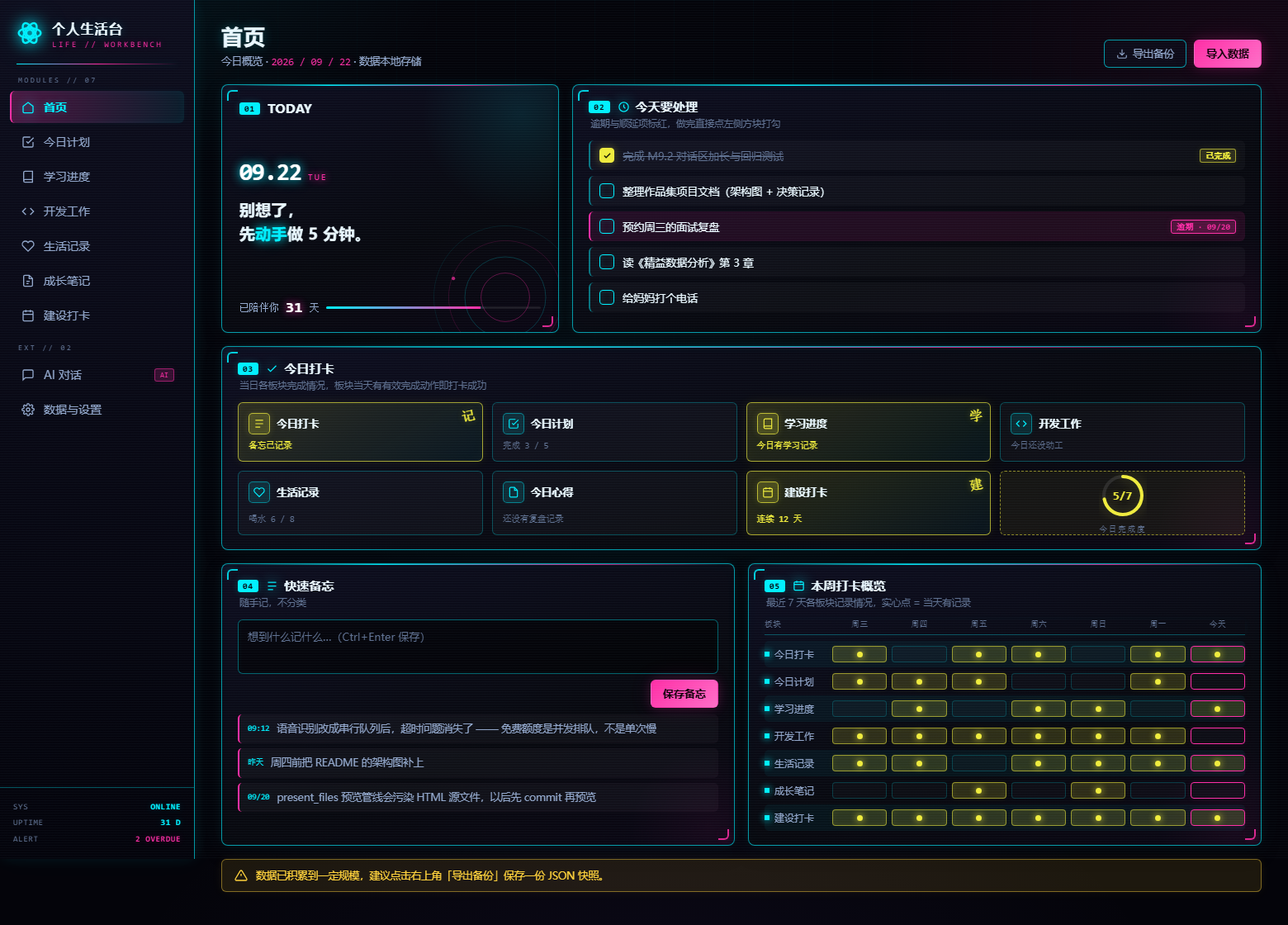
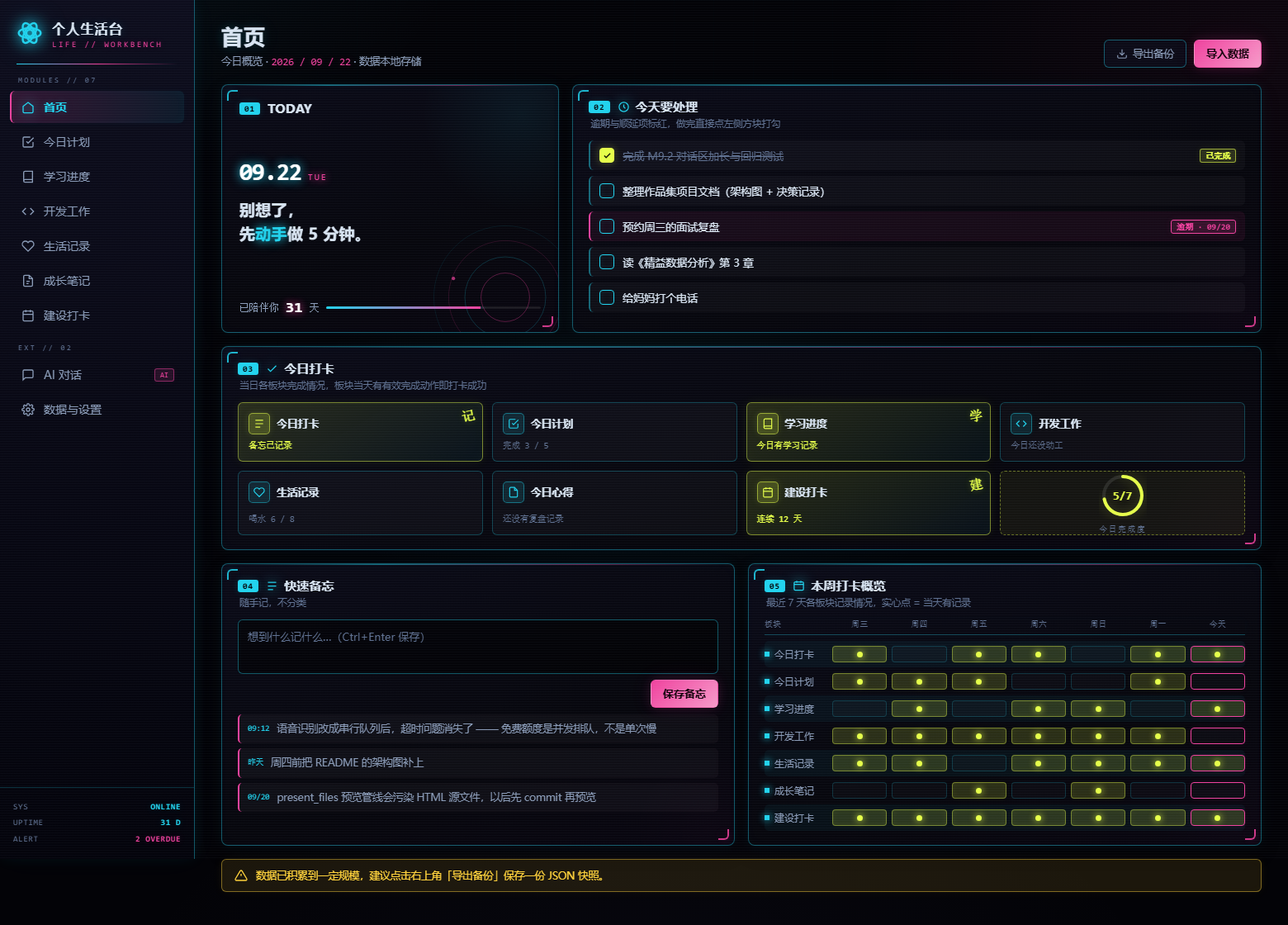
feat: B 版皮肤迭代 5（去饱和提格调 / 荧光黄带草绿）
- 去饱和：青 #00f0ff → #22d3ee（S100%→86%，色相 +7° 更冷）、品红 #ff2ea6 → #f0429e、
  紫光晕 #8b5cf6 → #7c74d6
- 做减法提格调：亮边框 .62→.40、卡片顶部霓虹高光条 .95/.8→.5/.42、网格不透明度 .75→.58、
  卡内品红余晖 →.016（五层装饰减到四层，卡片透气）
- 再压暗：底色 #04040a→#030307，卡片渐变三段同步降，文字 #eaf8ff→#d9e5f2 去刺眼
- 完成态 → 荧光黄带草绿 #e6ff4a（色相 68°，绿分量略高于红）
- 修复：批量替换时 '180,240,255' 的子串被误替换成非法值 rgba(1834,211,238,...)，
  浏览器整条忽略导致扫描线消失 —— 已修正，并加非法色值扫描自检
- 实测：光晕能量 9.04→7.60（相对最初 12.96 累计 -41%），亮部彩度 72.9→59.8（-18%），
  亮部峰值 p95 仍保 60；布局 3 行卡片、行内高度一致、无横向溢出
- png-luma.js 增加 satBright / vivid% / chromaBright 三个艳度指标（只统计 luma>40 的像素）

diff --git a/设计稿/皮肤方案/B-赛博霓虹.html b/设计稿/皮肤方案/B-赛博霓虹.html
@@ -9,10 +9,10 @@
    气质：最抓眼球、最"赛博朋克"。视觉冲击强，但辉光面积大，长时间使用略累。
 ================================================================ */
 :root{
-  --bg:#04040a;
-  --cyan:#00f0ff; --magenta:#ff2ea6; --gold:#f0ec3d; --amber:#ffd23d; --violet:#8b5cf6;
-  --panel:#0a0a16; --line:rgba(0,240,255,.34); --line-hi:rgba(0,240,255,.62);
-  --t1:#eaf8ff; --t2:#93a8cc; --t3:#607292;
+  --bg:#030307;
+  --cyan:#22d3ee; --magenta:#f0429e; --gold:#e6ff4a; --amber:#ffd23d; --violet:#7c74d6;
+  --panel:#0a0a16; --line:rgba(34,211,238,.22); --line-hi:rgba(34,211,238,.40);
+  --t1:#d9e5f2; --t2:#8b9cb8; --t3:#607292;
   --mono:"JetBrains Mono","SF Mono",ui-monospace,Menlo,Consolas,monospace;
   --r-card:8px; --r-sm:6px;
 }
@@ -21,18 +21,18 @@ body{
   font-family:"PingFang SC","Microsoft YaHei",system-ui,sans-serif;
   background:var(--bg); color:var(--t1); font-size:14px; min-height:100vh;
   background-image:
-    radial-gradient(820px 500px at 4% -8%, rgba(0,240,255,.085), transparent 62%),
-    radial-gradient(740px 460px at 97% 6%, rgba(255,46,166,.072), transparent 62%),
-    radial-gradient(980px 540px at 50% 110%, rgba(139,92,246,.058), transparent 66%),
-    radial-gradient(600px 380px at 50% 46%, rgba(0,240,255,.05), transparent 70%);
+    radial-gradient(820px 500px at 4% -8%, rgba(34,211,238,.058), transparent 62%),
+    radial-gradient(740px 460px at 97% 6%, rgba(240,66,158,.05), transparent 62%),
+    radial-gradient(980px 540px at 50% 110%, rgba(124,116,214,.04), transparent 66%),
+    radial-gradient(600px 380px at 50% 46%, rgba(34,211,238,.05), transparent 70%);
 }
 /* 扫描线 + 网格 */
 body::before{content:'';position:fixed;inset:0;pointer-events:none;z-index:8;
-  background:repeating-linear-gradient(180deg, rgba(180,240,255,.032) 0 1px, transparent 1px 3px)}
-body::after{content:'';position:fixed;inset:0;pointer-events:none;z-index:0;opacity:.75;
+  background:repeating-linear-gradient(180deg, rgba(200,228,255,.032) 0 1px, transparent 1px 3px)}
+body::after{content:'';position:fixed;inset:0;pointer-events:none;z-index:0;opacity:.58;
   background-image:
-    linear-gradient(rgba(0,240,255,.030) 1px, transparent 1px),
-    linear-gradient(90deg, rgba(0,240,255,.030) 1px, transparent 1px);
+    linear-gradient(rgba(34,211,238,.022) 1px, transparent 1px),
+    linear-gradient(90deg, rgba(34,211,238,.022) 1px, transparent 1px);
   background-size:48px 48px;
   mask-image:radial-gradient(1000px 640px at 50% 10%, #000 18%, transparent 86%)}
 #app{display:flex;min-height:100vh;position:relative;z-index:1}
@@ -42,59 +42,59 @@ body::after{content:'';position:fixed;inset:0;pointer-events:none;z-index:0;opac
   width:236px;flex-shrink:0;position:sticky;top:0;height:100vh;
   background:linear-gradient(180deg, rgba(14,14,30,.97), rgba(4,4,12,.97));
   border-right:1px solid var(--line-hi); display:flex;flex-direction:column;
-  box-shadow:1px 0 16px rgba(0,240,255,0.081), 3px 0 37px rgba(0,240,255,0.029);
+  box-shadow:1px 0 16px rgba(34,211,238,0.065), 3px 0 37px rgba(34,211,238,0.023);
 }
 .logo{padding:24px 20px 18px;display:flex;align-items:center;gap:11px;position:relative}
 .logo::after{content:'';position:absolute;left:20px;right:20px;bottom:0;height:1px;
   background:linear-gradient(90deg,var(--cyan),var(--magenta),transparent);
-  box-shadow:0 0 9px rgba(0,240,255,0.202)}
+  box-shadow:0 0 9px rgba(34,211,238,0.162)}
 .logo .mk svg{width:32px;height:32px;color:var(--cyan);
-  filter:drop-shadow(0 0 9px rgba(0,240,255,1)) drop-shadow(0 0 16px rgba(0,240,255,0.173))}
-.logo .t{font-size:16px;font-weight:700;letter-spacing:1.2px;text-shadow:0 0 12px rgba(0,240,255,0.245)}
+  filter:drop-shadow(0 0 9px rgba(34,211,238,1)) drop-shadow(0 0 16px rgba(34,211,238,0.173))}
+.logo .t{font-size:16px;font-weight:700;letter-spacing:1.2px;text-shadow:0 0 12px rgba(34,211,238,0.196)}
 .logo .s{font-size:10px;color:var(--magenta);margin-top:3px;font-family:var(--mono);
-  letter-spacing:2.4px;text-shadow:0 0 9px rgba(255,46,166,0.259)}
+  letter-spacing:2.4px;text-shadow:0 0 9px rgba(240,66,158,0.207)}
 nav{flex:1;padding:14px 12px;overflow-y:auto}
 .nav-label{font-family:var(--mono);font-size:9px;letter-spacing:2.4px;color:var(--t3);padding:0 10px 8px}
 .nav-item{display:flex;align-items:center;gap:11px;padding:10px 12px;border-radius:var(--r-sm);
   cursor:pointer;color:var(--t2);margin-bottom:3px;font-size:14px;
   border-left:2px solid transparent;transition:.18s}
-.nav-item:hover{background:rgba(0,240,255,.1);color:var(--t1)}
+.nav-item:hover{background:rgba(34,211,238,.1);color:var(--t1)}
 .nav-item.active{
-  background:linear-gradient(90deg, rgba(255,46,166,.26), rgba(0,240,255,.07));
+  background:linear-gradient(90deg, rgba(240,66,158,.17), rgba(34,211,238,.07));
   color:var(--cyan); border-left-color:var(--magenta); font-weight:600;
-  text-shadow:0 0 9px rgba(0,240,255,0.259);
-  box-shadow:inset 0 0 12px rgba(0,240,255,0.046), 0 0 10px rgba(0,240,255,0.035)}
+  text-shadow:0 0 9px rgba(34,211,238,0.207);
+  box-shadow:inset 0 0 12px rgba(34,211,238,0.037), 0 0 10px rgba(34,211,238,0.028)}
 .nav-item svg{width:16px;height:16px;flex:none}
 .nav-item.active svg{filter:drop-shadow(0 0 8px var(--cyan))}
 .nav-item .tag{margin-left:auto;font-family:var(--mono);font-size:9px;padding:2px 6px;border-radius:3px;
-  background:rgba(255,46,166,.18);color:var(--magenta);border:1px solid rgba(255,46,166,.5);
-  box-shadow:0 0 9px rgba(255,46,166,0.086)}
+  background:rgba(240,66,158,.13);color:var(--magenta);border:1px solid rgba(240,66,158,.5);
+  box-shadow:0 0 9px rgba(240,66,158,0.069)}
 .side-foot{padding:14px 16px;border-top:1px solid var(--line)}
 .hud{font-family:var(--mono);font-size:10px;color:var(--t3);line-height:1.95;letter-spacing:.6px}
-.hud b{color:var(--cyan);font-weight:600;text-shadow:0 0 9px rgba(0,240,255,0.245)}
+.hud b{color:var(--cyan);font-weight:600;text-shadow:0 0 9px rgba(34,211,238,0.196)}
 .hud .row{display:flex;justify-content:space-between}
-.hud .row.warn b{color:var(--magenta);text-shadow:0 0 9px rgba(255,46,166,0.245)}
+.hud .row.warn b{color:var(--magenta);text-shadow:0 0 9px rgba(240,66,158,0.196)}
 
 /* ---------- 主区 ---------- */
 main{flex:1;min-width:0;padding:26px 30px 40px;max-width:1320px;margin:0 auto}
 .page-head{display:flex;align-items:flex-end;justify-content:space-between;margin-bottom:20px;gap:16px;flex-wrap:wrap}
 .page-head h1{font-size:26px;font-weight:800;letter-spacing:1px;
-  text-shadow:0 0 14px rgba(0,240,255,0.23), 0 0 32px rgba(0,240,255,0.101)}
+  text-shadow:0 0 14px rgba(34,211,238,0.184), 0 0 32px rgba(34,211,238,0.081)}
 .page-head .sub{color:var(--t2);font-size:12.5px;margin-top:5px}
 .page-head .sub em{font-style:normal;font-family:var(--mono);color:var(--magenta);
-  text-shadow:0 0 9px rgba(255,46,166,0.259)}
+  text-shadow:0 0 9px rgba(240,66,158,0.207)}
 .head-actions{display:flex;gap:9px}
 .btn{display:inline-flex;align-items:center;gap:6px;padding:8px 14px;border-radius:var(--r-sm);
   border:1px solid var(--line-hi);background:rgba(12,12,26,.8);color:var(--t2);cursor:pointer;
   font-size:12.5px;font-family:inherit;transition:.16s;
-  box-shadow:0 0 9px rgba(0,240,255,0.04), inset 0 0 9px rgba(0,240,255,0.014)}
+  box-shadow:0 0 9px rgba(34,211,238,0.032), inset 0 0 9px rgba(34,211,238,0.011)}
 .btn:hover{color:var(--cyan);border-color:var(--cyan);
-  box-shadow:0 0 14px rgba(0,240,255,0.144), inset 0 0 12px rgba(0,240,255,0.04)}
+  box-shadow:0 0 14px rgba(34,211,238,0.115), inset 0 0 12px rgba(34,211,238,0.032)}
 .btn svg{width:14px;height:14px}
-.btn.primary{background:linear-gradient(135deg,var(--magenta),#ff6ec7);border-color:transparent;
+.btn.primary{background:linear-gradient(135deg,var(--magenta),#f79ac9);border-color:transparent;
   color:#12000a;font-weight:800;letter-spacing:.5px;
-  box-shadow:0 0 14px rgba(255,46,166,0.187), 0 0 32px rgba(255,46,166,0.081)}
-.btn.primary:hover{box-shadow:0 0 20px rgba(255,46,166,0.274), 0 0 48px rgba(255,46,166,0.115)}
+  box-shadow:0 0 14px rgba(240,66,158,0.15), 0 0 32px rgba(240,66,158,0.065)}
+.btn.primary:hover{box-shadow:0 0 20px rgba(240,66,158,0.219), 0 0 48px rgba(240,66,158,0.092)}
 
 /* ---------- 栅格 ---------- */
 .home-grid{display:grid;grid-template-columns:repeat(12,1fr);gap:16px;align-items:stretch}
@@ -103,42 +103,42 @@ main{flex:1;min-width:0;padding:26px 30px 40px;max-width:1320px;margin:0 auto}
 /* ---------- 卡片：圆角 10px（明显但克制） + 霓虹描边 + 多层辉光 ---------- */
 .card{position:relative;display:flex;flex-direction:column;padding:17px 19px;
   border-radius:var(--r-card); overflow:hidden;
-  background:linear-gradient(162deg,#0e0e20 0%,#08090f 62%,#0b0714 100%);
+  background:linear-gradient(162deg,#0b0b18 0%,#07070d 62%,#090610 100%);
   border:1px solid var(--line-hi);
   box-shadow:
-    0 0 0 1px rgba(0,240,255,0.029),
-    0 0 14px rgba(0,240,255,0.058),
-    0 0 36px rgba(0,240,255,0.026),
-    inset 0 0 20px rgba(0,240,255,0.016),
-    inset 0 1px 0 rgba(255,255,255,0.02),
-    0 9px 25px rgba(0,0,0,0.158);
+    0 0 0 1px rgba(34,211,238,0.023),
+    0 0 14px rgba(34,211,238,0.046),
+    0 0 36px rgba(34,211,238,0.021),
+    inset 0 0 20px rgba(34,211,238,0.013),
+    inset 0 1px 0 rgba(255,255,255,0.016),
+    0 9px 25px rgba(0,0,0,0.126);
 }
 /* 顶部霓虹高光条 */
 .card::before{content:'';position:absolute;top:0;left:16px;right:16px;height:1px;z-index:3;
-  background:linear-gradient(90deg,transparent,rgba(0,240,255,.95) 30%,rgba(255,46,166,.8) 72%,transparent);
-  box-shadow:0 0 9px rgba(0,240,255,0.216), 0 0 16px rgba(255,46,166,0.115)}
+  background:linear-gradient(90deg,transparent,rgba(34,211,238,.5) 30%,rgba(240,66,158,.42) 72%,transparent);
+  box-shadow:0 0 9px rgba(34,211,238,0.173), 0 0 16px rgba(240,66,158,0.092)}
 /* 右下角品红余晖 */
 .card::after{content:'';position:absolute;right:-70px;bottom:-80px;width:200px;height:200px;
   border-radius:50%;z-index:0;pointer-events:none;
-  background:radial-gradient(circle,rgba(255,46,166,.05),transparent 68%)}
+  background:radial-gradient(circle,rgba(240,66,158,.016),transparent 68%)}
 .card > *{position:relative;z-index:1}
-.card.hot{border-color:rgba(255,46,166,.6);
-  box-shadow:0 0 0 1px rgba(255,46,166,0.04), 0 0 16px rgba(255,46,166,0.069),
-    0 0 37px rgba(255,46,166,0.029), inset 0 0 20px rgba(255,46,166,0.02), 0 9px 25px rgba(0,0,0,0.158)}
+.card.hot{border-color:rgba(240,66,158,.6);
+  box-shadow:0 0 0 1px rgba(240,66,158,0.032), 0 0 16px rgba(240,66,158,0.055),
+    0 0 37px rgba(240,66,158,0.023), inset 0 0 20px rgba(240,66,158,0.016), 0 9px 25px rgba(0,0,0,0.126)}
 
 /* 角标：圆角取景框（呼应声场球） */
 .corner{position:absolute;width:13px;height:13px;z-index:2;pointer-events:none;opacity:.85}
 .corner.tl{top:6px;left:6px;border-top:2px solid var(--cyan);border-left:2px solid var(--cyan);
-  border-radius:6px 0 0 0;box-shadow:-2px -2px 9px rgba(0,240,255,0.13)}
+  border-radius:6px 0 0 0;box-shadow:-2px -2px 9px rgba(34,211,238,0.104)}
 .corner.br{bottom:6px;right:6px;border-bottom:2px solid var(--magenta);border-right:2px solid var(--magenta);
-  border-radius:0 0 6px 0;box-shadow:2px 2px 9px rgba(255,46,166,0.13)}
+  border-radius:0 0 6px 0;box-shadow:2px 2px 9px rgba(240,66,158,0.104)}
 
 .chead{display:flex;align-items:center;gap:9px;margin-bottom:3px}
-.chead .no{font-family:var(--mono);font-size:9.5px;color:#04040a;letter-spacing:1.4px;
+.chead .no{font-family:var(--mono);font-size:9.5px;color:#030307;letter-spacing:1.4px;
   background:var(--cyan);padding:2px 6px;border-radius:3px;font-weight:700;
-  box-shadow:0 0 9px rgba(0,240,255,0.202)}
+  box-shadow:0 0 9px rgba(34,211,238,0.162)}
 .chead h2{font-size:14.5px;font-weight:800;letter-spacing:.6px;display:flex;align-items:center;gap:7px}
-.chead h2 svg{width:15px;height:15px;color:var(--cyan);filter:drop-shadow(0 0 8px rgba(0,240,255,1))}
+.chead h2 svg{width:15px;height:15px;color:var(--cyan);filter:drop-shadow(0 0 8px rgba(34,211,238,1))}
 .cdesc{font-size:11.5px;color:var(--t3);margin-bottom:13px;padding-left:2px}
 .cbody{flex:1;display:flex;flex-direction:column;min-height:0}
 
@@ -146,124 +146,124 @@ main{flex:1;min-width:0;padding:26px 30px 40px;max-width:1320px;margin:0 auto}
 .date-card{padding:19px 21px;justify-content:space-between}
 .date-card::after{display:none}
 .date-card .glow{position:absolute;right:-80px;top:-90px;width:250px;height:250px;border-radius:50%;
-  background:radial-gradient(circle, rgba(0,240,255,.10), transparent 68%);z-index:1;pointer-events:none}
+  background:radial-gradient(circle, rgba(34,211,238,.07), transparent 68%);z-index:1;pointer-events:none}
 .day-head{display:flex;align-items:baseline;gap:8px;position:relative}
 .day-head .d{font-family:var(--mono);font-size:29px;font-weight:800;letter-spacing:-1px;color:#fff;
-  text-shadow:0 0 12px rgba(0,240,255,1), 0 0 32px rgba(0,240,255,0.144)}
+  text-shadow:0 0 12px rgba(34,211,238,1), 0 0 32px rgba(34,211,238,0.115)}
 .day-head .w{font-size:11px;color:var(--magenta);font-family:var(--mono);letter-spacing:2px;
-  text-shadow:0 0 10px rgba(255,46,166,1)}
+  text-shadow:0 0 10px rgba(240,66,158,1)}
 .day-greet{font-size:19px;font-weight:700;line-height:1.5;margin:15px 0 17px;position:relative;letter-spacing:.3px}
-.day-greet b{color:var(--cyan);text-shadow:0 0 12px rgba(0,240,255,1), 0 0 29px rgba(0,240,255,0.144)}
+.day-greet b{color:var(--cyan);text-shadow:0 0 12px rgba(34,211,238,1), 0 0 29px rgba(34,211,238,0.115)}
 .day-foot{position:relative;display:flex;align-items:center;gap:8px;
   font-size:11.5px;color:var(--t2);font-family:var(--mono);letter-spacing:.5px}
 .day-foot b{color:#fff;font-size:18px;font-weight:800;
-  text-shadow:0 0 10px rgba(255,46,166,1), 0 0 23px rgba(255,46,166,0.158)}
+  text-shadow:0 0 10px rgba(240,66,158,1), 0 0 23px rgba(240,66,158,0.126)}
 .day-foot .bar{flex:1;height:3px;background:rgba(255,255,255,.08);overflow:hidden;border-radius:2px}
 .day-foot .bar i{display:block;height:100%;width:72%;
   background:linear-gradient(90deg,var(--cyan),var(--magenta));
-  box-shadow:0 0 9px rgba(0,240,255,1), 0 0 18px rgba(255,46,166,0.173)}
+  box-shadow:0 0 9px rgba(34,211,238,1), 0 0 18px rgba(240,66,158,0.138)}
 .day-ring{position:absolute;right:-34px;bottom:-56px;width:196px;height:196px;opacity:.7;pointer-events:none;z-index:1;
-  filter:drop-shadow(0 0 8px rgba(0,240,255,0.144))}
+  filter:drop-shadow(0 0 8px rgba(34,211,238,0.144))}
 
 /* ---------- 今天要处理 ---------- */
 .focus-item{display:flex;align-items:center;gap:10px;padding:9px 11px;border-radius:var(--r-sm);
-  background:rgba(255,255,255,.03);border-left:2px solid rgba(0,240,255,.45);margin-bottom:7px;transition:.16s}
-.focus-item:hover{background:rgba(0,240,255,.1);border-left-color:var(--cyan);
-  box-shadow:inset 0 0 12px rgba(0,240,255,0.04), 0 0 9px rgba(0,240,255,0.04)}
-.focus-item.overdue{border-left-color:var(--magenta);background:rgba(255,46,166,.1);
-  box-shadow:inset 0 0 11px rgba(255,46,166,0.035)}
+  background:rgba(255,255,255,.03);border-left:2px solid rgba(34,211,238,.45);margin-bottom:7px;transition:.16s}
+.focus-item:hover{background:rgba(34,211,238,.1);border-left-color:var(--cyan);
+  box-shadow:inset 0 0 12px rgba(34,211,238,0.032), 0 0 9px rgba(34,211,238,0.032)}
+.focus-item.overdue{border-left-color:var(--magenta);background:rgba(240,66,158,.07);
+  box-shadow:inset 0 0 11px rgba(240,66,158,0.028)}
 .mini-check{width:18px;height:18px;border-radius:4px;border:1.5px solid var(--cyan);background:transparent;flex:none;
   display:grid;place-items:center;cursor:pointer;color:transparent;
-  box-shadow:inset 0 0 8px rgba(0,240,255,0.115), 0 0 8px rgba(0,240,255,0.052)}
-.mini-check.checked{background:var(--gold);border-color:var(--gold);color:#141500;
-  box-shadow:0 0 10px rgba(240,236,61,0.259), 0 0 20px rgba(240,236,61,0.101)}
+  box-shadow:inset 0 0 8px rgba(34,211,238,0.092), 0 0 8px rgba(34,211,238,0.042)}
+.mini-check.checked{background:var(--gold);border-color:var(--gold);color:#111600;
+  box-shadow:0 0 10px rgba(230,255,74,0.207), 0 0 20px rgba(230,255,74,0.081)}
 .mini-check svg{width:11px;height:11px}
 .fi-text{flex:1;font-size:13px;min-width:0;overflow:hidden;text-overflow:ellipsis;white-space:nowrap}
 .fi-text.done{color:var(--t3);text-decoration:line-through}
 .badge{font-family:var(--mono);font-size:9.5px;padding:2px 6px;flex:none;letter-spacing:.4px;font-weight:700;border-radius:3px}
-.badge.red{background:rgba(255,46,166,.22);color:var(--magenta);border:1px solid var(--magenta);
-  box-shadow:0 0 9px rgba(255,46,166,0.13)}
-.badge.gold{background:rgba(240,236,61,.14);color:var(--gold);border:1px solid rgba(240,236,61,.6);
-  box-shadow:0 0 9px rgba(240,236,61,0.101)}
+.badge.red{background:rgba(240,66,158,.15);color:var(--magenta);border:1px solid var(--magenta);
+  box-shadow:0 0 9px rgba(240,66,158,0.104)}
+.badge.gold{background:rgba(230,255,74,.14);color:var(--gold);border:1px solid rgba(230,255,74,.6);
+  box-shadow:0 0 9px rgba(230,255,74,0.081)}
 
 /* ---------- 今日打卡 ---------- */
 .checkin-grid{display:grid;grid-template-columns:repeat(4,1fr);gap:11px;height:100%}
 .ck-card{position:relative;padding:12px;border-radius:var(--r-sm);overflow:hidden;
-  border:1px solid rgba(0,240,255,.28);background:rgba(255,255,255,.03);
+  border:1px solid rgba(34,211,238,.28);background:rgba(255,255,255,.03);
   display:flex;flex-direction:column;gap:7px;transition:.18s;
-  box-shadow:inset 0 0 10px rgba(0,240,255,0.014)}
+  box-shadow:inset 0 0 10px rgba(34,211,238,0.011)}
 .ck-card:hover{border-color:var(--cyan);
-  box-shadow:0 0 12px rgba(0,240,255,0.101), inset 0 0 14px rgba(0,240,255,0.035)}
-.ck-card.done{border-color:rgba(240,236,61,.65);
-  background:linear-gradient(150deg,rgba(240,236,61,.14),rgba(0,240,255,.05));
-  box-shadow:0 0 14px rgba(240,236,61,0.081), inset 0 0 16px rgba(240,236,61,0.029)}
+  box-shadow:0 0 12px rgba(34,211,238,0.081), inset 0 0 14px rgba(34,211,238,0.028)}
+.ck-card.done{border-color:rgba(230,255,74,.46);
+  background:linear-gradient(150deg,rgba(230,255,74,.14),rgba(34,211,238,.05));
+  box-shadow:0 0 14px rgba(230,255,74,0.065), inset 0 0 16px rgba(230,255,74,0.023)}
 .ck-top{display:flex;align-items:center;gap:8px}
 .ck-ic{width:26px;height:26px;border-radius:5px;display:grid;place-items:center;flex:none;
-  background:rgba(0,240,255,.12);border:1px solid rgba(0,240,255,.45);color:var(--cyan);
-  box-shadow:0 0 9px rgba(0,240,255,0.063)}
+  background:rgba(34,211,238,.12);border:1px solid rgba(34,211,238,.45);color:var(--cyan);
+  box-shadow:0 0 9px rgba(34,211,238,0.05)}
 .ck-ic svg{width:14px;height:14px}
-.ck-card.done .ck-ic{background:rgba(240,236,61,.18);border-color:rgba(240,236,61,.7);color:var(--gold);
-  box-shadow:0 0 10px rgba(240,236,61,0.158), inset 0 0 9px rgba(240,236,61,0.058)}
+.ck-card.done .ck-ic{background:rgba(230,255,74,.18);border-color:rgba(230,255,74,.52);color:var(--gold);
+  box-shadow:0 0 10px rgba(230,255,74,0.126), inset 0 0 9px rgba(230,255,74,0.046)}
 .ck-name{font-size:12.5px;font-weight:700;letter-spacing:.3px}
 .ck-st{font-size:10.5px;color:var(--t3);font-family:var(--mono);margin-top:auto}
-.ck-card.done .ck-st{color:var(--gold);text-shadow:0 0 8px rgba(240,236,61,0.144)}
+.ck-card.done .ck-st{color:var(--gold);text-shadow:0 0 8px rgba(230,255,74,0.115)}
 .ck-stamp{position:absolute;right:8px;top:6px;font-size:16px;font-weight:800;color:var(--gold);
   transform:rotate(-12deg);font-family:var(--mono);
-  text-shadow:0 0 9px rgba(240,236,61,0.329), 0 0 17px rgba(240,236,61,0.115)}
+  text-shadow:0 0 9px rgba(230,255,74,0.263), 0 0 17px rgba(230,255,74,0.092)}
 .ck-card.locked{opacity:.45}
 .lock-tag{position:absolute;right:6px;top:6px;font-family:var(--mono);font-size:8.5px;font-weight:700;
-  padding:1px 4px;border-radius:3px;background:rgba(255,46,166,.18);color:var(--magenta);
-  border:1px solid rgba(255,46,166,.5)}
+  padding:1px 4px;border-radius:3px;background:rgba(240,66,158,.13);color:var(--magenta);
+  border:1px solid rgba(240,66,158,.5)}
 .ck-sum{display:flex;flex-direction:column;align-items:center;justify-content:center;gap:6px;
   border-radius:var(--r-sm);position:relative;
-  border:1px dashed rgba(240,236,61,.55);background:rgba(240,236,61,.06);
-  box-shadow:inset 0 0 12px rgba(240,236,61,0.023)}
+  border:1px dashed rgba(230,255,74,.40);background:rgba(230,255,74,.06);
+  box-shadow:inset 0 0 12px rgba(230,255,74,0.018)}
 .ck-sum .ring{width:58px;height:58px;position:relative}
 .ck-sum .ring svg{width:58px;height:58px;transform:rotate(-90deg)}
 .ck-sum .ring .val{position:absolute;inset:0;display:grid;place-items:center;
   font-family:var(--mono);font-size:14px;font-weight:800;color:var(--gold);
-  text-shadow:0 0 9px rgba(240,236,61,0.259)}
+  text-shadow:0 0 9px rgba(230,255,74,0.207)}
 .ck-sum .lb{font-family:var(--mono);font-size:10px;color:var(--t3);letter-spacing:1.4px}
 
 /* ---------- 快速备忘 ---------- */
 .memo-box textarea{
-  width:100%;min-height:66px;background:rgba(0,0,0,.5);border:1px solid rgba(0,240,255,.4);
+  width:100%;min-height:66px;background:rgba(0,0,0,.5);border:1px solid rgba(34,211,238,.4);
   border-radius:var(--r-sm);
   color:var(--t1);padding:10px 11px;font-size:13px;font-family:inherit;resize:none;line-height:1.6;
-  box-shadow:inset 0 0 9px rgba(0,240,255,0.02)}
+  box-shadow:inset 0 0 9px rgba(34,211,238,0.016)}
 .memo-box textarea:focus{outline:none;border-color:var(--cyan);
-  box-shadow:0 0 12px rgba(0,240,255,0.115), inset 0 0 11px rgba(0,240,255,0.04)}
+  box-shadow:0 0 12px rgba(34,211,238,0.092), inset 0 0 11px rgba(34,211,238,0.032)}
 .memo-box textarea::placeholder{color:var(--t3)}
 .memo-list{margin-top:8px;display:flex;flex-direction:column;gap:6px;overflow-y:auto;max-height:150px}
 .memo-item{display:flex;gap:9px;padding:8px 10px;border-radius:5px;background:rgba(255,255,255,.035);
   border-left:2px solid var(--magenta);font-size:12.5px;line-height:1.55;color:var(--t2);
-  box-shadow:inset 0 0 9px rgba(255,46,166,0.02)}
+  box-shadow:inset 0 0 9px rgba(240,66,158,0.016)}
 .memo-item time{font-family:var(--mono);font-size:9.5px;color:var(--cyan);flex:none;padding-top:2px;
-  text-shadow:0 0 8px rgba(0,240,255,0.173)}
+  text-shadow:0 0 8px rgba(34,211,238,0.138)}
 
 /* ---------- 本周概览 ---------- */
 .wk-table{display:flex;flex-direction:column;gap:1px}
 .wk-head,.wk-row{display:grid;grid-template-columns:76px repeat(7,1fr);gap:6px;align-items:center}
-.wk-head{padding-bottom:7px;border-bottom:1px solid rgba(0,240,255,.3);margin-bottom:6px;
-  box-shadow:0 1px 9px rgba(0,240,255,0.046)}
+.wk-head{padding-bottom:7px;border-bottom:1px solid rgba(34,211,238,.3);margin-bottom:6px;
+  box-shadow:0 1px 9px rgba(34,211,238,0.037)}
 .wk-head span{font-family:var(--mono);font-size:9.5px;color:var(--t3);text-align:center;letter-spacing:.6px}
 .wk-head span:first-child{text-align:left}
 .wk-row{padding:6px 0;border-radius:5px}
-.wk-row:nth-child(even){background:rgba(0,240,255,.05)}
+.wk-row:nth-child(even){background:rgba(34,211,238,.05)}
 .wk-name{font-size:12px;color:var(--t2);display:flex;align-items:center;gap:6px}
 .wk-name i{width:6px;height:6px;background:var(--cyan);flex:none;box-shadow:0 0 8px var(--cyan)}
 .wk-dot{width:100%;height:20px;border-radius:4px;display:grid;place-items:center;
-  border:1px solid rgba(0,240,255,.2);background:rgba(255,255,255,.025)}
-.wk-dot.on{background:rgba(240,236,61,.16);border-color:rgba(240,236,61,.55);
-  box-shadow:inset 0 0 9px rgba(240,236,61,0.058), 0 0 8px rgba(240,236,61,0.046)}
+  border:1px solid rgba(34,211,238,.2);background:rgba(255,255,255,.025)}
+.wk-dot.on{background:rgba(230,255,74,.16);border-color:rgba(230,255,74,.40);
+  box-shadow:inset 0 0 9px rgba(230,255,74,0.046), 0 0 8px rgba(230,255,74,0.037)}
 .wk-dot.on::after{content:'';width:7px;height:7px;border-radius:50%;background:var(--gold);
-  box-shadow:0 0 9px rgba(240,236,61,1)}
-.wk-dot.today{border-color:var(--magenta);box-shadow:0 0 9px rgba(255,46,166,0.086)}
+  box-shadow:0 0 9px rgba(230,255,74,1)}
+.wk-dot.today{border-color:var(--magenta);box-shadow:0 0 9px rgba(240,66,158,0.069)}
 
 /* ---------- 备份提示 ---------- */
 .backup-tip{grid-column:span 12;display:flex;align-items:center;gap:10px;padding:11px 15px;border-radius:var(--r-sm);
   background:rgba(255,210,61,.1);border:1px solid rgba(255,210,61,.45);color:var(--amber);font-size:12.5px;
-  box-shadow:0 0 14px rgba(255,210,61,0.058), inset 0 0 12px rgba(255,210,61,0.02)}
+  box-shadow:0 0 14px rgba(255,210,61,0.046), inset 0 0 12px rgba(255,210,61,0.016)}
 .backup-tip svg{width:16px;height:16px;flex:none}
 </style>
 </head>
@@ -319,11 +319,11 @@ main{flex:1;min-width:0;padding:26px 30px 40px;max-width:1320px;margin:0 auto}
         </div>
         <div class="day-foot"><span>已陪伴你</span><b>31</b><span>天</span><span class="bar"><i></i></span></div>
         <svg class="day-ring" viewBox="0 0 240 240" aria-hidden="true">
-          <circle cx="120" cy="120" r="106" fill="none" stroke="rgba(0,240,255,.16)" stroke-width="1"/>
-          <circle cx="120" cy="120" r="84" fill="none" stroke="rgba(255,46,166,.28)" stroke-width="1"/>
-          <circle cx="120" cy="120" r="60" fill="none" stroke="rgba(0,240,255,.36)" stroke-width="1"/>
-          <circle cx="120" cy="120" r="36" fill="none" stroke="rgba(255,46,166,.6)" stroke-width="1"/>
-          <circle cx="219" cy="156" r="4" fill="#00f0ff"/><circle cx="43" cy="92" r="2.6" fill="#ff2ea6"/>
+          <circle cx="120" cy="120" r="106" fill="none" stroke="rgba(34,211,238,.16)" stroke-width="1"/>
+          <circle cx="120" cy="120" r="84" fill="none" stroke="rgba(240,66,158,.28)" stroke-width="1"/>
+          <circle cx="120" cy="120" r="60" fill="none" stroke="rgba(34,211,238,.36)" stroke-width="1"/>
+          <circle cx="120" cy="120" r="36" fill="none" stroke="rgba(240,66,158,.6)" stroke-width="1"/>
+          <circle cx="219" cy="156" r="4" fill="#22d3ee"/><circle cx="43" cy="92" r="2.6" fill="#f0429e"/>
         </svg>
       </div>
 
@@ -359,7 +359,7 @@ main{flex:1;min-width:0;padding:26px 30px 40px;max-width:1320px;margin:0 auto}
           <div class="ck-card"><div class="ck-top"><div class="ck-ic"><svg viewBox="0 0 24 24" fill="none" stroke="currentColor" stroke-width="2"><path d="M14 2H6a2 2 0 0 0-2 2v16a2 2 0 0 0 2 2h12a2 2 0 0 0 2-2V8z"/><path d="M14 2v6h6"/></svg></div><div class="ck-name">今日心得</div></div><div class="ck-st">还没有复盘记录</div></div>
           <div class="ck-card done"><div class="ck-top"><div class="ck-ic"><svg viewBox="0 0 24 24" fill="none" stroke="currentColor" stroke-width="2"><rect x="3" y="4" width="18" height="18" rx="2"/><path d="M16 2v4M8 2v4M3 10h18"/></svg></div><div class="ck-name">建设打卡</div></div><div class="ck-st">连续 12 天</div><div class="ck-stamp">建</div></div>
           <div class="ck-sum">
-            <div class="ring"><svg viewBox="0 0 58 58"><circle cx="29" cy="29" r="23" fill="none" stroke="rgba(255,255,255,.1)" stroke-width="4"/><circle cx="29" cy="29" r="23" fill="none" stroke="#f0ec3d" stroke-width="4" stroke-linecap="round" stroke-dasharray="144.5" stroke-dashoffset="41.3" style="filter:drop-shadow(0 0 7px rgba(240,236,61,0.274))"/></svg><div class="val">5/7</div></div>
+            <div class="ring"><svg viewBox="0 0 58 58"><circle cx="29" cy="29" r="23" fill="none" stroke="rgba(255,255,255,.1)" stroke-width="4"/><circle cx="29" cy="29" r="23" fill="none" stroke="#e6ff4a" stroke-width="4" stroke-linecap="round" stroke-dasharray="144.5" stroke-dashoffset="41.3" style="filter:drop-shadow(0 0 7px rgba(230,255,74,0.274))"/></svg><div class="val">5/7</div></div>
             <div class="lb">今日完成度</div>
           </div>
         </div>

diff --git a/docs/03-版本记录.md b/docs/03-版本记录.md
@@ -34,6 +34,15 @@
   → 结论：**大面积底噪亮度由背景层（radial-gradient 光晕 / 点阵网格 / CRT 扫描线）决定，
   shadow 只决定局部高光**。想让画面"暗下来"必须压背景层，压 shadow 无效（前两轮白调）。
   调参脚本：`.workbuddy/tune-mockup-b4.js`（背景光晕 ×0.65、网格与扫描线 ×0.65、shadow alpha ×0.72）
+- **B5（去饱和 · 提格调）**：主色从 S100% 降到 ~85% 并往冷偏——青 `#00f0ff` → `#22d3ee`（色相 +7° 更冷）、
+  品红 `#ff2ea6` → `#f0429e`、紫光晕 `#8b5cf6` → `#7c74d6`；亮边框 `--line-hi` .62→.40、
+  顶部霓虹高光条 .95/.8→.5/.42、网格不透明度 .75→.58、卡内品红余晖 →.016（做减法，卡片透气）；
+  底色再压暗（`#04040a`→`#030307`，卡片渐变三段同步降），文字 `#eaf8ff`→`#d9e5f2` 去刺眼。
+  完成态 → **荧光黄带草绿 `#e6ff4a`**（色相 68°，绿分量略高于红，落在柠檬黄与草绿之间）。
+  实测：光晕能量 9.04 → **7.60**（相对最初 12.96 累计 -41%），亮部彩度 chroma 72.9 → **59.8**（-18%），
+  但亮部峰值 p95 仍保 60 —— 暗下来而高光不丢
+- 度量补充：`png-luma.js` 增加 satBright / vivid% / chromaBright 三个「艳度」指标（只统计 luma>40 的像素，
+  否则暗底会把饱和度平均拉飞，出现「A 版看着克制但指标更高」的反直觉结果）
 
 - 点阵（斐波那契）球回归为**默认皮肤**，霓虹皮肤保留可一键切换（按钮持久化到 localStorage）
 - 点阵球视觉增强：新增高对比配色 dark2（亮青-品红），光晕/核心/射线亮度全面上调，取景台底色压暗
